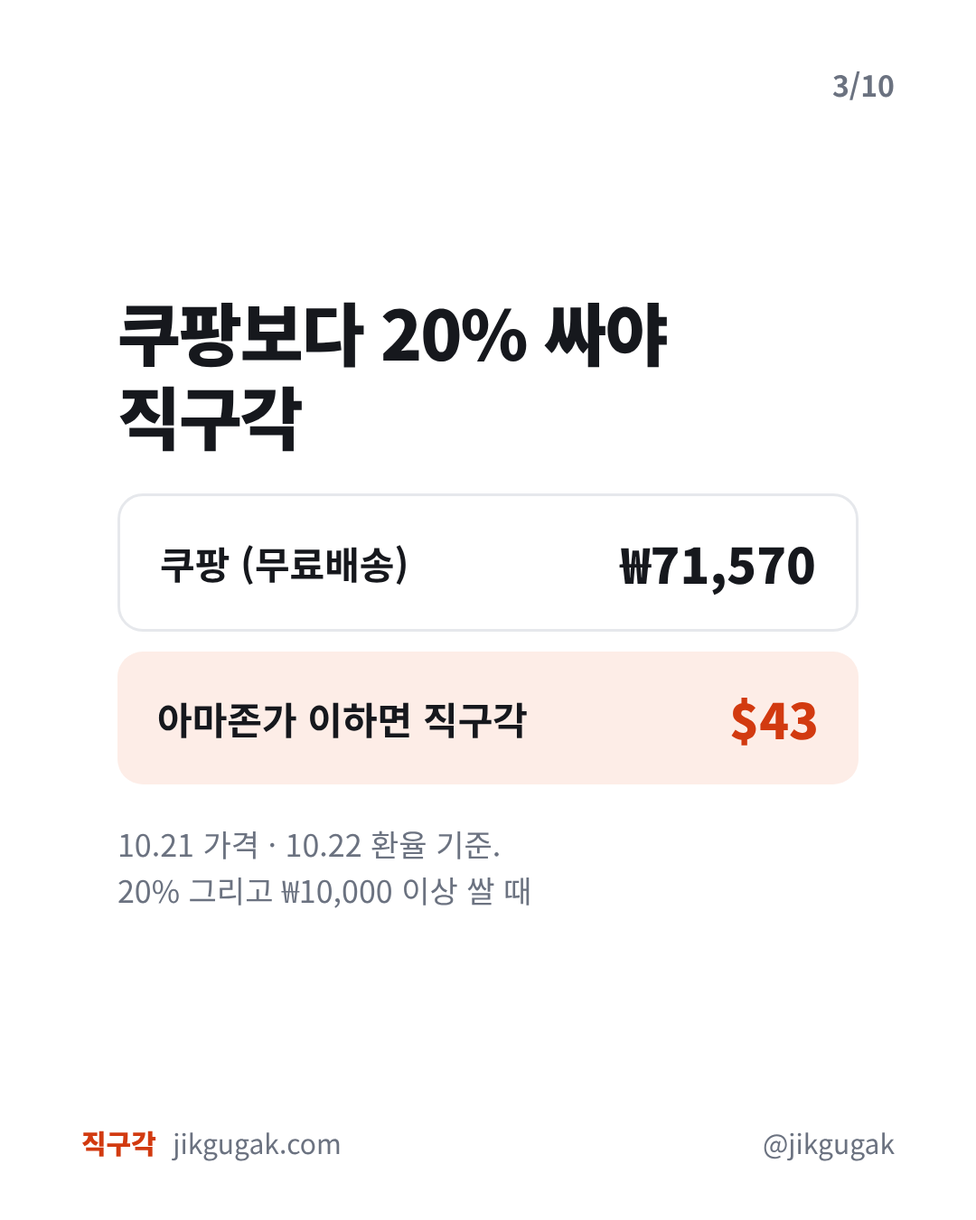
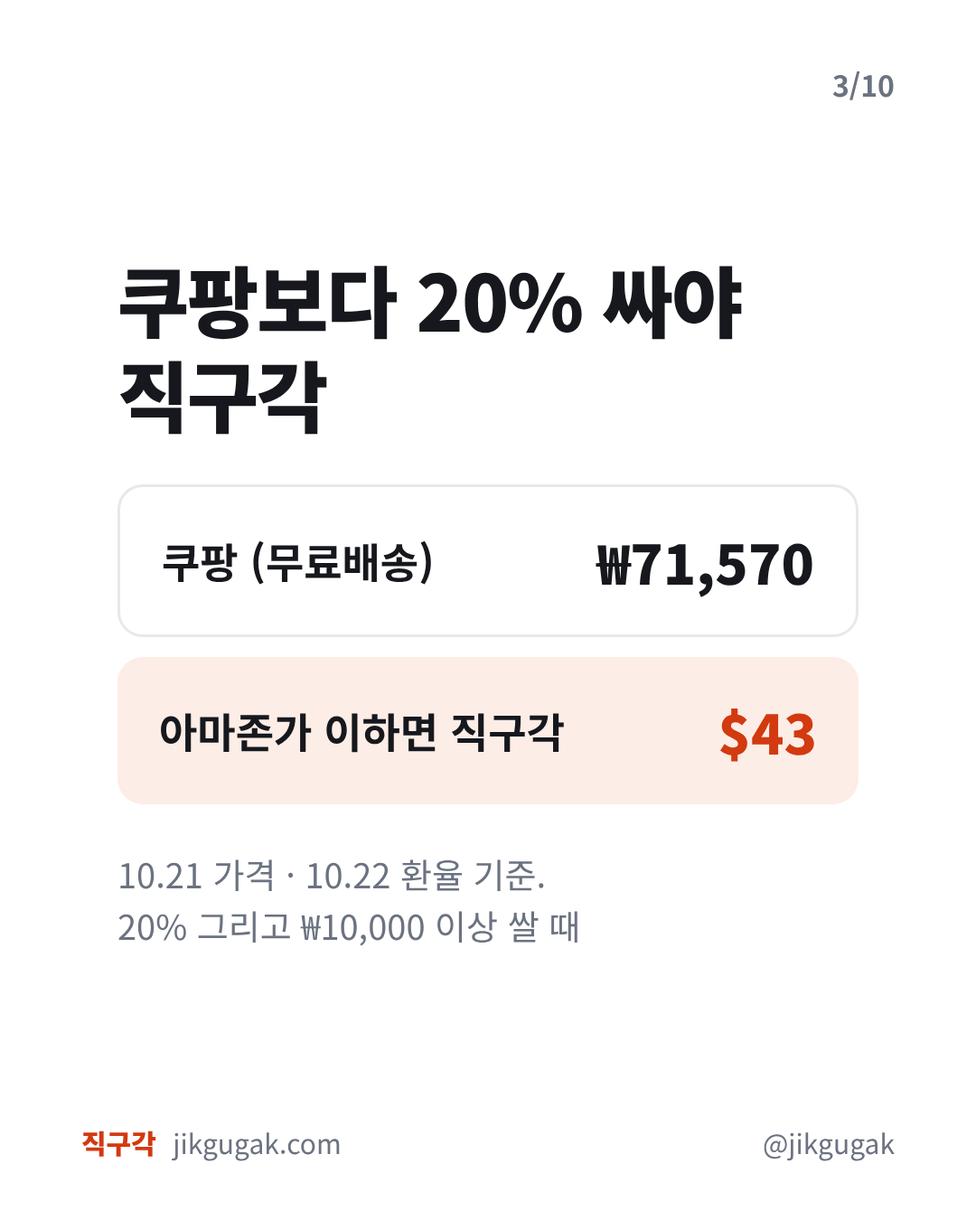
레고 꽃다발 홍보 세트 완성(팀장 검수 통과), 카드 템플릿 글자 확대·규칙 보완
Claude-Session: https://claude.ai/code/session_019Cv1aFf1DMQ9eAvVdGwkdU

diff --git a/content/2026-10-22-lego-bouquet/cards/deck.html b/content/2026-10-22-lego-bouquet/cards/deck.html
@@ -2,14 +2,14 @@
 *{box-sizing:border-box;margin:0;padding:0}
 body{font-family:'Pretendard Variable','Pretendard','Noto Sans CJK KR','Apple SD Gothic Neo',sans-serif;color:#16181D;-webkit-font-smoothing:antialiased;word-break:keep-all}
 .slide{width:1080px;height:1350px;position:relative;background:#fff;padding:150px 130px 170px;display:flex;flex-direction:column;overflow:hidden}
-.content{flex:1;display:flex;flex-direction:column;justify-content:center;gap:40px}
+.content{flex:1;display:flex;flex-direction:column;justify-content:center;gap:48px}
 .num{position:absolute;top:70px;right:90px;font-size:32px;font-weight:700;color:#6B7280}
 .foot{position:absolute;left:90px;right:90px;bottom:64px;display:flex;justify-content:space-between;font-size:30px;color:#6B7280}
 .mark b{color:#D23A10;font-weight:900;margin-right:10px}
-h2{font-size:76px;line-height:1.22;font-weight:900;letter-spacing:-2px}
-.label{display:inline-block;align-self:flex-start;background:#FFE14D;font-size:34px;font-weight:800;padding:10px 22px;border-radius:999px}
-.body{font-size:44px;line-height:1.5;color:#3B414D;font-weight:500}
-.big{font-size:120px;font-weight:900;color:#D23A10;letter-spacing:-3px}
+h2{font-size:86px;line-height:1.22;font-weight:900;letter-spacing:-2px}
+.label{display:inline-block;align-self:flex-start;background:#FFE14D;font-size:38px;font-weight:800;padding:10px 22px;border-radius:999px}
+.body{font-size:50px;line-height:1.5;color:#3B414D;font-weight:500}
+.big{font-size:150px;font-weight:900;color:#D23A10;letter-spacing:-3px}
 .cover{background:#D23A10;color:#fff;justify-content:center;gap:36px}
 .cover .foot{color:rgba(255,255,255,.85)} .cover .mark b{color:#FFE14D}
 .ad{position:absolute;top:70px;left:90px;font-size:30px;font-weight:700;background:rgba(0,0,0,.18);padding:8px 18px;border-radius:999px}
@@ -18,17 +18,17 @@ h2{font-size:76px;line-height:1.22;font-weight:900;letter-spacing:-2px}
 .cover-s{font-size:46px;line-height:1.45;font-weight:600;opacity:.95}
 .badge{align-self:flex-start;background:#FFE14D;color:#16181D;font-size:40px;font-weight:900;padding:16px 30px;border-radius:999px}
 .rows{display:flex;flex-direction:column;gap:22px}
-.row{display:flex;justify-content:space-between;align-items:center;gap:30px;background:#F5F6F8;border-radius:28px;padding:34px 44px;font-size:42px;font-weight:600}
-.row b{font-size:54px;font-weight:900;text-align:right}
+.row{display:flex;justify-content:space-between;align-items:center;gap:30px;background:#F5F6F8;border-radius:28px;padding:38px 46px;font-size:46px;font-weight:600}
+.row b{font-size:60px;font-weight:900;text-align:right}
 .row.hi{background:#FDEDE7} .row.hi b{color:#D23A10}
 .row.good{background:#E3F3EA} .row.good b{color:#0E7C4A}
 .row.dim{background:#fff;border:3px solid #E6E8EC}
-.note{font-size:34px;line-height:1.5;color:#6B7280}
+.note{font-size:38px;line-height:1.5;color:#6B7280}
 .vbox{background:var(--bg);border:6px solid var(--c);border-radius:40px;padding:50px;text-align:center}
 .vword{font-size:130px;font-weight:900;color:var(--c);letter-spacing:-4px}
 .vline{font-size:44px;font-weight:700;margin-top:12px}
 .recap{list-style:none;counter-reset:r;display:flex;flex-direction:column;gap:26px}
-.recap li{counter-increment:r;font-size:44px;line-height:1.4;font-weight:700;padding-left:86px;position:relative}
+.recap li{counter-increment:r;font-size:50px;line-height:1.4;font-weight:700;padding-left:86px;position:relative}
 .recap li::before{content:counter(r);position:absolute;left:0;top:-4px;width:62px;height:62px;border-radius:50%;background:#D23A10;color:#fff;font-size:36px;font-weight:900;display:flex;align-items:center;justify-content:center}
 .ctaslide{background:#FFF7D1;justify-content:center;gap:44px}
 .cta-t{font-size:90px}

diff --git a/content/2026-10-22-lego-bouquet/review.md b/content/2026-10-22-lego-bouquet/review.md
@@ -1,0 +1,90 @@
+# 검수: 레고 꽃다발 직구 vs 쿠팡 (marketing-lead · 2026-10-22)
+
+## 최종 판정: 게시 가능 (아래 "게시할 때 할 일"을 운영자가 지키는 조건)
+
+검수 대상: blog.md(blog-writer) · cards.json·instagram.md·threads.md(social-writer) · cards/01~10.png(card-designer)
+숫자 대조 원본: `npm run build` 출력(2026-10-22, 환율 settings 값 사용), `dist/p/amazon-lego-10280-flower-bouquet.html`, `dist/p/amazon-lego-10309-succulents.html`, `data/products.json`, `data/events.json`, `src/calc.js`로 직접 다시 계산.
+
+## 1. 숫자
+
+| 항목 | 결과 | 확인 내용 |
+| --- | --- | --- |
+| 가격·체감가·손익분기·차이·% 대조 | 통과 | 빌드: 10280 손익분기 $43, 10309 $42. calc.js 재계산: $43 → ₩56,996(₩14,574, 20.4% 쌈, 직구각), $44 → ₩58,322(18.5%, 애매), $53 애매, $54 국내가 나음(10280·10309 둘 다). 합계 손익분기 $85 → ₩112,667(₩29,633, 20.8%). 국내 합계 ₩142,300. 모두 글과 같음 |
+| 국내가 배송비 표기 | 통과 | 10280 "쿠팡, 무료배송" ₩71,570 / 10309 "쿠팡 ₩60,730 + 배송비 ₩10,000" = ₩70,730. ₩60,730 단독 사용 없음 |
+| 기준 날짜 | 수정함 | 가격 2026.10.21 저녁, 결제 환율 10.22, 과세환율 10.18~10.24. 캡션의 "(10월 22일 환율 기준)"이 면세 문장에 잘못 붙어 있어서 $43 문장으로 옮김. 스레드 2에 환율 날짜 추가 |
+| 세일 날짜·예상 표기 | 수정함 | events.json과 날짜·상태 일치. 블로그가 "11번가 그랜드 십일절과 빅스마일데이"로 써서 빅스마일데이가 11번가 행사처럼 읽힘 → "G마켓·옥션 빅스마일데이" |
+| 계산 근거 | 통과 | 미국 특송 완구 $200 면세, 관세 8%·부가세 10%, 20% 그리고 ₩10,000 규칙, 두 환율 구분 모두 CLAUDE.md·calc.js와 같음 |
+
+- 매니저가 고친 products.json 요약도 빌드로 확인: 10280 2번째 줄 "손익분기 $43가 $49 무료배송 기준보다 낮아서, 꽃다발만 담으면 배송비가 따로 붙어요.", risks "US$49 미만이면 배송비 별도" 반영됨. 10309 "평소 할인가가 이 근처라" 삭제됨. 글 내용과 충돌 없음.
+- 참고(콘텐츠 밖): 10280 요약 "손익분기 $43가"는 읽으면 "43달러가"라 문법상 괜찮아요. 수정 불필요.
+
+## 2. 규칙
+
+| 항목 | 결과 | 확인 내용 |
+| --- | --- | --- |
+| 아마존 가격 숫자 없음 | 수정함 | 모든 달러 숫자가 "이하/이상/부터/기준" 기준선 또는 $49 배송 조건·$200 면세 한도. "평소·정가·할인율·$○○에서" 없음. **카드 07의 큰 빨간 "$44"는 위험하다고 판단**: 카드 02의 ₩71,570, 04의 $200과 같은 크기·색이라 넘겨 볼 때 "아마존 $44"로 읽힐 수 있음 → 큰 숫자를 "18.5%"로 바꾸고 제목을 "$44부터는 애매"로(기준선임을 문법으로 표시) |
+| 광고 표시 | 통과 | 블로그 맨 위 제휴 문구 + 쿠팡 파트너스 문구, 표지 "광고 · 제휴 링크 포함", 캡션 첫 줄 #광고, 스레드 2개 끝 #광고 |
+| 링크 | 통과 | jikgugak.com 주소만(블로그 1개, 스레드 각 1개, 캡션 0개). 제휴 링크 노출 없음, 검수 중 제휴 링크 열지 않음 |
+| 로고·남의 사진 | 통과 | 카드는 글자만. 상품 사진은 "쿠팡 파트너스 제공 이미지, 운영자 첨부" 자리 표시만 |
+| 상표 표기 | 통과 | "레고 보태니컬 플라워 부케 10280" 상품명으로만, 공식 관계 암시 없음 |
+| 효능·단정 | 통과 | "최저가 보장" 류 없음. "블프에 할인한다" 단정 없음("보장은 없어요") |
+
+## 3. 정직함
+
+| 항목 | 결과 | 확인 내용 |
+| --- | --- | --- |
+| 국내가 나은 경우 | 수정함 | 블로그·캡션·스레드에 "$54 이상 국내가 나음", "국내 세일로 쿠팡가가 내려가면", "급한 선물은 쿠팡" 있음. 스레드 2의 "$43 이하면 직구각이고, 아니면 쿠팡이 나아요"는 $44~$53 애매 구간을 뭉갠 표현이라 "그 위면 애매하거나 쿠팡이 나아요"로 |
+| 단독 포스트의 함정 누락 | 수정함 | 스레드 2는 혼자 읽히는 글인데 "꽃다발만 담으면 배송비" 함정이 빠져 있어 $43이 혼자서도 맞는 기준처럼 읽힘 → 한 문장 추가 |
+| 체험담·후기·별점 | 통과 | 없음 |
+| 금지어 | 통과 | 역대급·무조건·인생템·필수템·놓치지·총정리·꿀팁 없음(스크립트로 확인) |
+
+## 4. 사람 말투
+
+| 항목 | 결과 | 확인 내용 |
+| --- | --- | --- |
+| 줄표·말줄임표·둥근 따옴표 | 통과 | 4개 파일 모두 0개(U+2014/2013/2026/201C~2019 검사) |
+| 보이지 않는 문자 | 통과 | U+200B~200F, 2060, FEFF, 00AD, 00A0 모두 0개 |
+| AI 티 표현 | 수정함 | 블로그 "결론부터 말할게요." 굵은 글씨 줄 + 글머리 3개 구조를 평범한 3줄 문단으로. "관세는 걱정하지 않아도 돼요"는 "이 가격대는 관세 걱정이 없어요"로. 캡션 "깔끔해요"(뜻이 흐림) → "직구각이에요" |
+| 구조 신호 | 통과 | 3단 나열 반복·한 단어 질문 줄 없음. 블로그의 "그렇다고 $49를 넘기면 될까요? 아니에요."는 한 문장으로 합침 |
+
+## 5. 채널 형식
+
+| 항목 | 결과 | 확인 내용 |
+| --- | --- | --- |
+| 블로그 길이 | 수정함 | 본문 공백 포함 3,116자 → **2,166자**(공백 제외 1,661자). 소제목 7개 → 5개, 다육식물 단독 가격대 문단·중복 설명 삭제, "$1 차이" 소제목을 "왜 기준이 $43일까"에 합침, "직접 계산해 보기" 소제목 없애고 마지막 문단으로 |
+| 블로그 형식 | 수정함 | 첫 문단 결론+숫자+날짜, 표 2개, 링크 1개. 검색어 "레고 꽃다발 직구"는 제목·첫 문단·소제목에, "레고 블랙프라이데이"는 소제목에. 본문 안 H1 제목은 네이버 제목 칸과 중복돼서 삭제. 제목 1안 "…$43 이하면 사세요" → "…$43 이하면 직구각"(구매 권유 대신 판정 말투, 혼자 담으면 기준이 안 맞는 점과도 충돌 안 함) |
+| 블로그 내용 정확성 | 수정함 | "둘을 한 주문에 담으면 합계가 $49를 넘으니" → "넘기 쉬워"(가격에 따라 보장 아님) |
+| 카드 | 수정함 | 10장, 표지 훅 "$43 이하면 직구각"(9자), 한 장 한 포인트, 요약 09, CTA 10(저장 하나), 2~10장 번호·전 장 핸들, 렌더 경고 없음. 카드 04 라벨 "왜 $43"이 내용($200 면세)과 안 맞고 설명이 제목을 그대로 반복 → 라벨 "관세", 설명 "미국 특송 완구는 $200까지 면세. / 관세 8%·부가세 10% 모두 0원". 카드 07 위와 같이 수정. 다시 렌더 후 10장 모두 열어 확인(잘림·겹침·오타 없음, 나머지 8장은 바이트 크기 동일) |
+| 캡션 | 통과 | 첫 줄 "레고 꽃다발, 아마존가 $43 이하면 직구각이에요 #광고"(숫자 훅), 요청 "저장" 하나, 링크 없음, 해시태그 #광고 포함 5개 |
+| 스레드 | 통과 | 2개, 각 378자·377자(500자 이내), 끝에 링크 1개 + #광고. 스레드 1 첫 줄 "$49."는 바로 다음 줄에서 무료배송 기준이라고 밝혀서 아마존 상품가로 읽히지 않는다고 판단 |
+
+## 고친 것 (전 → 후)
+
+1. **카드 07:** 큰 숫자 "$44" / 제목 "1달러 넘으면 애매" / 라벨 "기준선" → 큰 숫자 "18.5%" / 제목 "$44부터는 애매" / 라벨 "$1 차이" / 설명 "배송비 없이 쳐도 18.5%만 싸요. 직구각은 20% 이상부터예요" (아마존가로 읽힐 위험 제거, 무료배송 가정도 밝힘)
+2. **카드 04:** 라벨 "왜 $43" → "관세", 설명 반복 문장 → "미국 특송 완구는 $200까지 면세. / 관세 8%·부가세 10% 모두 0원"
+3. **블로그:** 3,116자 → 2,166자, 소제목 7 → 5, 본문 H1 삭제, 제목 1안 끝 "사세요" → "직구각", 빅스마일데이 주최(G마켓·옥션) 바로잡음, "합계가 $49를 넘으니" → "넘기 쉬워"
+4. **캡션:** 환율 날짜 위치 바로잡음, "$44부터는 애매"에 18.5% 근거 붙임, "깔끔해요" → "직구각이에요". instagram.md 장별 미리보기 04·07도 새 문구로
+5. **스레드 2:** "아니면 쿠팡이 나아요" → "그 위면 애매하거나 쿠팡이 나아요", 배송비 함정 한 문장 추가, 환율 날짜 추가. **스레드 1:** "쿠팡 ₩71,570 기준" → "꽃다발 쿠팡 ₩71,570(무료배송) 기준"(합계 $85 문장 바로 뒤라 어느 상품 가격인지 분명하게)
+
+## 행사명 확인: "넾다세일"
+
+- WebSearch로 확인: 네이버플러스 스토어 행사 표기는 **"넾다세일"이 맞아요**(한국경제·헤럴드경제·이투데이·바이라인네트워크 기사, 디자인컴패스의 네이버 브랜딩 소개 글). 글과 data/events.json 모두 수정 불필요.
+- 참고: 기사상 넾다세일은 상반기(6월)에도 열려요. 하반기 10.29~11.11은 events.json대로 "예상"으로 썼어요.
+
+## 게시할 때 할 일 (운영자)
+
+1. **인스타:** "유료 광고 포함" 표시 켜기. 이미지 순서 01 → 10 그대로. 대체 텍스트(alt)에 "레고 꽃다발 10280, 아마존가 $43 이하면 직구각이라는 표지" 넣기. 캡션은 instagram.md "캡션" 부분만 복사(점수표·게시 메모는 빼기). 첫 댓글은 따로 달지 않아도 돼요.
+2. **블로그:** 제목 칸에 1안("레고 꽃다발 직구 vs 쿠팡, 블프에 아마존 $43 이하면 직구각"), 본문은 `<!-- 아래부터 본문 -->` 아래만. 맨 위 광고 문구 2줄 지우지 않기. `[이미지: 직구각 카드 03…]` 자리에 cards/03.png, 상품 사진은 쿠팡 파트너스가 주는 이미지만. 태그 10개 그대로.
+3. **스레드:** 두 글을 따로 올리기(이어 쓰기 아님). 링크·#광고 지우지 않기.
+4. **게시 전 다시 볼 것:** 쿠팡가(₩71,570·₩70,730)나 환율이 바뀌면 $43·$42·$85가 달라질 수 있어요. 게시 당일 꽃다발 페이지에 "$43 이하"가 그대로인지 확인하고, 달라졌으면 게시 보류 후 매니저에게 알려 주세요.
+5. 계정 핸들이 `@jikgugak`이 아니게 정해지면 카드 다시 렌더 필요.
+
+## 개선 제안 (템플릿, 이번엔 수정 안 함)
+
+- **여백:** 02·04·05·07·08·09장은 글이 화면 가운데 3분의 1에 몰려 위아래가 비어요. 내용이 짧은 point·recap 장은 글자 크기를 한 단계 키우거나(제목 글자 수 기준 자동 확대) 콘텐츠를 위쪽 1/3 지점에서 시작하게 하면 휴대폰에서 더 잘 읽혀요. 지금 상태도 잘림·겹침이 없어 게시에는 문제없어요.
+- **표지 번호:** 표지(01)에 번호가 없어요. 체크리스트는 "모든 장에 번호"인데, 표지는 광고 배지와 겹치지 않게 번호를 빼는 게 보통이라 이번엔 통과로 봤어요. 규칙을 "표지 제외"로 고치거나 템플릿에 1/10을 넣을지 정해 주세요.
+- **큰 숫자(big) 규칙:** card-spec.md에 "big에는 아마존 상품가처럼 보이는 달러 숫자를 넣지 않는다(%·원화·면세 한도만)"를 추가하면 이번 같은 판단이 반복되지 않아요.
+
+## 매니저 반영 (2026-10-22)
+- 개선 제안 3개 모두 반영: 카드 글자 한 단계 확대(제목 86px·설명 50px·큰 숫자 150px 등)로 여백 줄임, 번호 규칙 "표지 제외"로 확정, card-spec.md에 "big에 달러 금액 금지" 추가. 10장 다시 렌더해 잘림·겹침 없음 확인.
+- 매니저 숫자 재확인: $43(₩57,256÷1,325.50), $43→₩56,996(20.4%), $44→₩58,322(18.5%), 합계 $85→₩112,667(₩29,633·20.8%) 모두 일치. 제휴 링크 노출·아마존 가격 숫자 없음.

diff --git a/content/2026-10-22-lego-bouquet/blog.md b/content/2026-10-22-lego-bouquet/blog.md
@@ -1,7 +1,7 @@
 # 블로그 글: 레고 꽃다발 직구 vs 쿠팡 (blog-writer · 2026-10-22)
 
 ## 제목 후보 (1안 추천)
-1. 레고 꽃다발 직구 vs 쿠팡, 블프에 아마존 $43 이하면 사세요
+1. 레고 꽃다발 직구 vs 쿠팡, 블프에 아마존 $43 이하면 직구각
 2. 레고 플라워 부케 10280 직구, 관세까지 계산한 기준 가격은 $43
 3. 레고 꽃다발 블랙프라이데이 직구, 다육식물이랑 같이 담아야 하는 이유
 
@@ -10,18 +10,14 @@
 
 ---
 
-<!-- 아래부터 본문 (네이버 블로그에 붙여 넣을 부분) -->
+<!-- 아래부터 본문 (네이버 블로그에 붙여 넣을 부분. 제목은 네이버 제목 칸에 위 1안을 넣어요) -->
 
 > 이 글은 제휴 활동의 일환으로, 글 속 링크로 구매하면 직구각이 수수료를 받을 수 있어요(구매가는 같아요).
 > 이 포스팅은 쿠팡 파트너스 활동의 일환으로, 이에 따른 일정액의 수수료를 제공받습니다.
 
-# 레고 꽃다발 직구 vs 쿠팡, 블프에 아마존 $43 이하면 사세요
-
-**결론부터 말할게요.**
-
-- 레고 꽃다발 직구는 **아마존가 $43 이하**면 직구각이에요. (10월 21일 가격, 10월 22일 환율 기준)
-- 그런데 꽃다발만 담으면 이 기준이 안 맞아요. 아마존은 US$49 이상이어야 무료배송(적합 상품)인데, $43은 그 아래거든요. 레고 보태니컬 다육식물 10309와 같이 담아 **합계 $85 이하**일 때 깔끔하게 맞아요.
-- 지금 직구각의 판정은 "현재가 확인"이에요. 직구각은 아마존 가격을 보여 주지 않으니, 세일 때 아마존에서 가격을 직접 보고 아래 숫자와 비교해 주세요.
+레고 꽃다발 직구는 **아마존가 $43 이하**면 직구각이에요(10월 21일 가격, 10월 22일 환율 기준).
+다만 꽃다발만 담으면 배송비가 붙어서 이 기준이 안 맞아요. 다육식물 10309와 같이 담아 **합계 $85 이하**일 때 깔끔하게 맞아요.
+직구각은 아마존 가격을 보여 주지 않아요. 세일 때 아마존에서 가격을 직접 보고 아래 숫자와 비교해 주세요.
 
 [이미지: 직구각 카드 03(쿠팡가 vs 기준 가격)]
 
@@ -30,69 +26,47 @@
 | 상품 | 쿠팡 최저가 | 직구각이 되는 아마존가 | 배송 기간 |
 | --- | --- | --- | --- |
 | 레고 보태니컬 플라워 부케 10280 | ₩71,570 (무료배송) | $43 이하 | 2~6주 |
-| 레고 보태니컬 다육식물 10309 | ₩70,730 (상품 ₩60,730 + 배송비 ₩10,000) | $42 이하 | 1~4주 |
+| 레고 보태니컬 다육식물 10309 | ₩70,730 (₩60,730 + 배송비 ₩10,000) | $42 이하 | 1~4주 |
 
-쿠팡 가격은 10월 21일 저녁에 확인했어요. 다육식물은 배송비를 더한 ₩70,730으로 비교해야 맞아요.
+쿠팡 가격은 10월 21일 저녁에 확인했어요.
 
 ## 왜 기준이 $43일까
 
-직구각은 "국내보다 20% 이상 싸고, 동시에 ₩10,000 이상 쌀 때"만 직구각이라고 해요. 하나라도 모자라면 애매, 아니면 국내가 나음이에요.
+직구각은 국내보다 20% 이상 싸고, 동시에 ₩10,000 이상 쌀 때만 직구각이라고 해요. 꽃다발은 20% 조건이 더 빡빡해요. ₩71,570의 80%인 ₩57,256 아래로 들어와야 하고, 이걸 결제 환율(1,325.50원, 10월 22일 매매기준율)로 바꾸면 $43이에요.
 
-꽃다발은 20% 조건이 더 빡빡해요. ₩71,570의 80%는 ₩57,256이라서, 관세와 배송비까지 더한 체감가가 이 아래여야 해요. 결제 환율(1,325.50원/달러, 10월 22일 한국수출입은행 매매기준율)로 바꾸고 달러 미만을 버리면 $43이 나와요.
+이 가격대는 관세 걱정이 없어요. 미국 특송으로 오는 완구는 $200까지 면세라 관세 8%도, 부가세 10%도 0원이에요. 면세 판단엔 관세청 과세환율(1,340.28원, 10월 18~24일 고시)을 써요.
 
-관세는 걱정하지 않아도 돼요. 미국에서 특송으로 오는 완구는 $200까지 면세라서, 이 가격대는 관세와 부가세가 0원이에요. 면세 여부를 따질 땐 결제 환율이 아니라 관세청 과세환율(1,340.28원/달러, 10월 18일부터 24일까지 고시)을 써요. 환율이 두 가지라 헷갈리지만, 직구각이 알아서 나눠 계산해요.
+기준선 근처는 칼같이 갈려요. $43이면 체감가 ₩56,996으로 쿠팡보다 20.4% 싸서 직구각이고, $44면 ₩58,322로 18.5%만 싸서 애매예요. $54 이상이면 국내가 나아요. 이 숫자들은 "이 가격이면 이런 판정"이라는 기준선이지 아마존 가격이 아니에요.
 
 ## 레고 꽃다발 직구, 혼자 담으면 기준이 안 맞아요
 
-여기가 이 글의 핵심이에요. 기준 $43은 배송비가 $0이라고 놓고 계산한 값인데, 아마존 무료배송은 US$49 이상(적합 상품)부터예요. $43 이하로 꽃다발 하나만 담으면 $49에 못 미쳐서 배송비가 따로 붙어요. 배송비만큼 실제 기준은 $43보다 더 내려가요.
+$43은 배송비 $0으로 계산한 값이에요. 그런데 아마존 무료배송은 US$49 이상(적합 상품)부터라, 꽃다발 하나만 $43에 담으면 배송비가 따로 붙어요. 그만큼 실제 기준은 $43보다 더 내려가요. 그렇다고 $49를 넘기면 무료배송은 되지만 이미 직구각 가격이 아니에요.
 
-그렇다고 $49를 넘기면 될까요? 아니에요. $49 이상이면 무료배송이지만, 그 가격대는 이미 직구각이 아니에요.
+그래서 다육식물과 한 주문에 같이 담아요. 합계가 $49를 넘기 쉬워 배송비가 없고, $200 면세 한도 안이라 세금도 없어요.
 
-그래서 다육식물과 같이 담는 거예요. 둘을 한 주문에 담으면 합계가 $49를 넘으니 배송비가 없고, $200 면세 한도 안이니 세금도 없어요.
+| 담는 방법 | 쿠팡 합계 | 직구각이 되는 아마존가 |
+| --- | --- | --- |
+| 꽃다발만 | ₩71,570 | $43 이하, 배송비만큼 더 내려감 |
+| 둘 같이 | ₩142,300 | **합계 $85 이하** (무료배송) |
 
-| 담는 방법 | 국내 쿠팡 합계 | 직구각이 되는 아마존가 | 배송비 |
-| --- | --- | --- | --- |
-| 꽃다발만 | ₩71,570 | $43 이하 (배송비 때문에 더 내려감) | $49 미만이라 따로 붙음 |
-| 다육식물만 | ₩70,730 | $42 이하 (배송비 때문에 더 내려감) | $49 미만이라 따로 붙음 |
-| 둘 같이 | ₩142,300 | **합계 $85 이하** | 합계가 $49를 넘어 무료 |
+합계 $85면 체감가는 ₩112,667, 쿠팡보다 ₩29,633(20.8%) 싸요(직구각 계산 기준).
 
-합계 $85에 맞춰 계산하면 해외 체감가는 ₩112,667이에요. 쿠팡보다 ₩29,633(20.8%) 싼 값이에요. (직구각 계산 기준, 10월 21일 가격과 10월 22일 환율)
+## 레고 블랙프라이데이, 언제 확인할까
 
-## $1 차이로 판정이 바뀌어요
+- 아마존 블프 위크: 11월 20~30일 (예상)
+- 블랙프라이데이 11월 27일, 사이버먼데이 11월 30일 (확정)
 
-기준선 근처는 칼같이 갈려요. 꽃다발 기준선을 $43으로 놓고 계산하면 체감가는 ₩56,996이고 쿠팡보다 ₩14,574(20.4%) 싸서 직구각이에요. 기준선을 $1 올려 $44로 놓으면 체감가는 ₩58,322, 18.5%만 싸서 애매로 바뀌어요.
+날짜가 확정이어도 레고 꽃다발이 할인한다는 보장은 없어요. 할인하면 위 숫자부터 보세요.
 
-배송비 $0을 가정한 꽃다발의 가격대별 판정은 이래요.
-
-- $43 이하: 직구각
-- $44부터 $53까지: 애매
-- $54 이상: 국내가 나음
-
-다육식물은 $42 이하가 직구각, $43부터 $53까지 애매, $54 이상 국내가 나음이에요. 위 숫자는 "이 가격이면 이런 판정"이라는 기준선이지, 현재 아마존 가격이 아니에요.
-
-## 언제 확인하면 될까
-
-직구각 세일 캘린더에 모아 둔 일정이에요.
-
-- 아마존 블프 위크: 11월 20일부터 30일까지 (예상)
-- 블랙프라이데이: 11월 27일 (확정)
-- 사이버먼데이: 11월 30일 (확정)
-
-블프와 사이버먼데이는 날짜가 확정이지만, 레고 꽃다발이 할인한다는 보장은 없어요. 할인하면 위 숫자부터 보세요.
-
-국내 세일도 그 사이에 있어요. 네이버 넾다세일(10월 29일부터 11월 11일), 11번가 그랜드 십일절과 빅스마일데이(11월 1일부터 11일), 코리아세일페스타(11월 9일부터 30일)가 있는데 모두 예상 일정이에요. 쿠팡 가격이 내려가면 직구각 기준도 같이 내려가요. 국내가 더 싸지면 그냥 쿠팡에서 사는 게 맞아요.
-
-블프 때는 환율과 쿠팡 가격이 지금과 다를 수 있어요. 살 때는 직구각 상품 페이지에서 숫자를 다시 확인해 주세요.
+그 전에 국내 세일도 있어요. 네이버 넾다세일(10월 29일~11월 11일), 11번가 그랜드 십일절과 G마켓·옥션 빅스마일데이(11월 1~11일), 코리아세일페스타(11월 9~30일), 모두 예상 일정이에요. 쿠팡 가격이 내려가면 직구 기준도 같이 내려가요. 국내가 더 싸지면 쿠팡에서 사는 게 맞아요.
 
 ## 사기 전에 확인할 3가지
 
-1. **결제는 달러로 해요.** 카드 환전 수수료가 붙을 수 있어서, 직구각 계산보다 실제 결제액이 조금 다를 수 있어요.
-2. **선물이라면 배송 기간을 봐야 해요.** 꽃다발 10280은 배송이 2~6주예요. 블프 때 주문하면 크리스마스 전에 도착한다고 장담하기 어려워요. 급한 선물은 쿠팡이 마음 편해요.
-3. **$200을 넘기지 마세요.** 다른 레고를 더 담아 $200을 넘기면, 배송비를 포함한 전체 금액에 관세 8%와 부가세 10%가 붙어요. 같이 담기는 같은 주문에서 $200 이하까지만이에요.
+1. **결제는 달러로.** 원화로 결제하면 환전 수수료가 붙어요.
+2. **선물이면 배송 기간.** 꽃다발은 2~6주라 블프에 주문하면 크리스마스 전 도착을 장담하기 어려워요. 급하면 쿠팡이 마음 편해요.
+3. **$200 넘기지 않기.** 다른 레고를 더 담아 넘기면 배송비 포함 전체에 관세 8%와 부가세 10%가 붙어요.
 
-## 직접 계산해 보기
-
-레고 보태니컬 플라워 부케 10280의 쿠팡 가격과 기준 가격은 직구각 상품 페이지에서 바로 볼 수 있어요.
+블프 때는 환율과 쿠팡 가격이 지금과 달라요. 사기 전에 직구각 상품 페이지에서 숫자를 다시 확인해 주세요.
 
 https://www.jikgugak.com/p/amazon-lego-10280-flower-bouquet
 

diff --git a/content/2026-10-22-lego-bouquet/instagram.md b/content/2026-10-22-lego-bouquet/instagram.md
@@ -19,10 +19,10 @@
 1. 표지: 레고 보태니컬 플라워 부케 10280 / **$43 이하면 직구각** / 블프 전에 이 숫자 하나만 (광고 표시는 렌더가 자동으로 넣어요)
 2. 문제 제기: 쿠팡 최저가 ₩71,570 / 아마존은 얼마여야 이득? / 쿠팡 무료배송 기준(10월 21일 가격)
 3. 핵심 비교: 쿠팡 ₩71,570 vs 아마존가 이하면 직구각 $43 / 10.21 가격·10.22 환율, 20% 그리고 ₩10,000 이상 쌀 때
-4. 왜 $43: $200 안이라 관세 0원 / 관세 8%·부가세 10%가 $200 이하면 0원이에요
+4. 관세: $200 안이라 관세 0원 / 미국 특송 완구는 $200까지 면세. 관세 8%·부가세 10% 모두 0원
 5. 함정: 꽃다발만 담으면 배송비가 붙어요 / $49 이상만 무료배송(적합 상품). $43 이하면 그 밑이에요
 6. 같이 담기: 꽃다발 $43 이하 · 다육식물 $42 이하 · 같은 주문 합계 $85 이하 / 다육식물 쿠팡가는 배송비 포함 ₩70,730
-7. $1 차이: 기준선 $44 / 1달러 넘으면 애매 / $44부터 애매 구간이에요. $44면 18.5%만 싸요
+7. $1 차이: $44부터는 애매 / 배송비 없이 쳐도 18.5%만 싸요. 직구각은 20% 이상부터예요 / 큰 숫자 18.5%
 8. 언제·주의: 예상 11.20~11.30 아마존 블프 위크 / 블프 11.27은 확정. 선물이면 배송 2~6주 확인
 9. 정리(캡처용): 꽃다발 $43 이하 · 다육식물 $42 이하 · 합계 $85 이하 · 한 주문 $200 안으로 · 쿠팡가 바뀌면 기준도 바뀜
 10. CTA: 저장해 두고 블프 때 다시 보세요 / 프로필 링크 → jikgugak.com
@@ -31,11 +31,11 @@
 
 레고 꽃다발, 아마존가 $43 이하면 직구각이에요 #광고
 
-블프 전에 레고 꽃다발 직구 기준부터 정리했어요. 레고 보태니컬 플라워 부케 10280은 쿠팡이 ₩71,570(무료배송, 10월 21일 가격)이에요. 국내보다 20% 이상, 그리고 ₩10,000 이상 싸야 직구각이라서 아마존가 $43 이하가 기준이에요.
+블프 전에 레고 꽃다발 직구 기준부터 정리했어요. 레고 보태니컬 플라워 부케 10280은 쿠팡이 ₩71,570(무료배송, 10월 21일 가격)이에요. 국내보다 20% 이상, 그리고 ₩10,000 이상 싸야 직구각이라서 아마존가 $43 이하가 기준이에요(10월 22일 환율).
 
-레고 관세는 미국 특송 $200 이하면 관세 8%·부가세 10%가 0원이에요(10월 22일 환율 기준). 1달러 차이로 판정이 바뀌니까 $44부터는 애매예요.
+레고 관세는 미국 특송 $200 이하면 관세 8%·부가세 10% 모두 0원이에요. $44부터는 쿠팡보다 18.5%만 싸서 애매로 바뀌어요.
 
-함정이 하나 있어요. 아마존 무료배송은 US$49 이상(적합 상품)이라 꽃다발만 담으면 배송비가 붙어요. 다육식물 10309(국내 ₩70,730, 배송비 포함)와 같이 담아 합계 $85 이하면 깔끔해요.
+함정이 하나 있어요. 아마존 무료배송은 US$49 이상(적합 상품)이라 꽃다발만 담으면 배송비가 붙어요. 다육식물 10309(국내 ₩70,730, 배송비 포함)와 같이 담아 합계 $85 이하면 직구각이에요.
 
 국내 세일(네이버, 11번가, 코리아세일페스타, 모두 예상)로 쿠팡가가 내려가면 기준도 같이 내려가요. 꽃다발 배송은 2~6주라서 크리스마스 선물이면 쿠팡이 마음 편할 수 있어요.
 

diff --git a/content/2026-10-22-lego-bouquet/threads.md b/content/2026-10-22-lego-bouquet/threads.md
@@ -12,7 +12,7 @@ $49.
 
 다육식물 10309(기준 $42 이하)와 한 주문에 같이 담아서 합계 $85 이하면 직구각이에요. 한 주문 $200 안이라 관세·부가세는 0원이에요.
 
-쿠팡 ₩71,570 기준, 10월 21일 가격·10월 22일 환율이에요. 블프 때는 바뀔 수 있어요.
+꽃다발 쿠팡 ₩71,570(무료배송) 기준, 10월 21일 가격·10월 22일 환율이에요. 블프 때는 바뀔 수 있어요.
 
 직접 계산은 jikgugak.com
 https://www.jikgugak.com/p/amazon-lego-10280-flower-bouquet
@@ -23,7 +23,7 @@ https://www.jikgugak.com/p/amazon-lego-10280-flower-bouquet
 
 레고 꽃다발 선물, 블프까지 기다려요? 지금 쿠팡에서 사요?
 
-쿠팡은 ₩71,570, 무료배송이에요(10월 21일 가격). 블프(11.27 확정) 때 아마존가가 $43 이하면 직구각이고, 아니면 쿠팡이 나아요.
+쿠팡은 ₩71,570, 무료배송이에요(10월 21일 가격). 블프(11.27 확정) 때 아마존가가 $43 이하면 직구각이고(10월 22일 환율), 그 위면 애매하거나 쿠팡이 나아요. 꽃다발만 담으면 배송비가 붙으니 다육식물 10309와 같이 담는 게 좋아요.
 
 그런데 꽃다발 직구는 배송이 2~6주예요. 크리스마스 선물이면 블프 주문은 도착을 장담 못 해요. 급하면 쿠팡이 마음 편할 수 있어요.
 

diff --git a/docs/marketing/review-checklist.md b/docs/marketing/review-checklist.md
@@ -37,6 +37,6 @@ AI 티 나는 말(빼거나 평범한 말로):
 
 ## 5. 채널 형식 (playbook.md)
 - [ ] 블로그: 제목에 검색어 앞쪽, 첫 문단 결론, 표, 링크 하나
-- [ ] 카드: 6~10장, 표지 12자 이내 훅, 한 장 한 포인트, 요약 장, CTA 하나, 번호·핸들, 렌더 경고 없음, 이미지 직접 열어 확인
+- [ ] 카드: 6~10장, 표지 12자 이내 훅, 한 장 한 포인트, 요약 장, CTA 하나, 번호(표지 제외)·핸들, 렌더 경고 없음, 이미지 직접 열어 확인
 - [ ] 캡션: 첫 줄 훅에 숫자, 요청 하나, 링크 없음, 해시태그 5개 이하
 - [ ] 스레드: 2개, 각 500자 이내, #광고

diff --git a/docs/marketing/playbook.md b/docs/marketing/playbook.md
@@ -30,7 +30,7 @@
   3~N. **한 장 = 한 포인트.** 제목 7~15자 + 설명 40자 이내. 넘치면 두 장으로.
   N+1. **요약(정리) 장:** 전체를 목록으로. 캡처해서 보내는 장이에요.
   마지막. **CTA 한 개:** 저장 / 프로필 링크 / 댓글 키워드 중 하나.
-- 모든 장에 번호(3/8)와 핸들. 대체 텍스트(alt) 표지 1줄 이상.
+- 표지를 뺀 모든 장에 번호(3/8), 모든 장에 핸들. 대체 텍스트(alt) 표지 1줄 이상.
 - 카드 문구는 `cards.json`으로 → `node tools/cards/render.mjs content/<폴더>` 로 이미지 생성(`card-spec.md`).
 
 ## 인스타 캡션

diff --git a/docs/marketing/card-spec.md b/docs/marketing/card-spec.md
@@ -23,4 +23,5 @@
 }
 ```
 - rows 세 번째 값: `hi`(빨강 강조) · `good`(초록) · `dim`(흐리게) · 비우면 회색.
+- `big`(큰 숫자)에는 달러 금액을 넣지 않아요. 아마존 가격처럼 읽혀요. %·원화·면세 한도만 써요.
 - 줄바꿈은 `\n`. 한 장의 글자 수가 많으면 두 장으로 나눠요.
